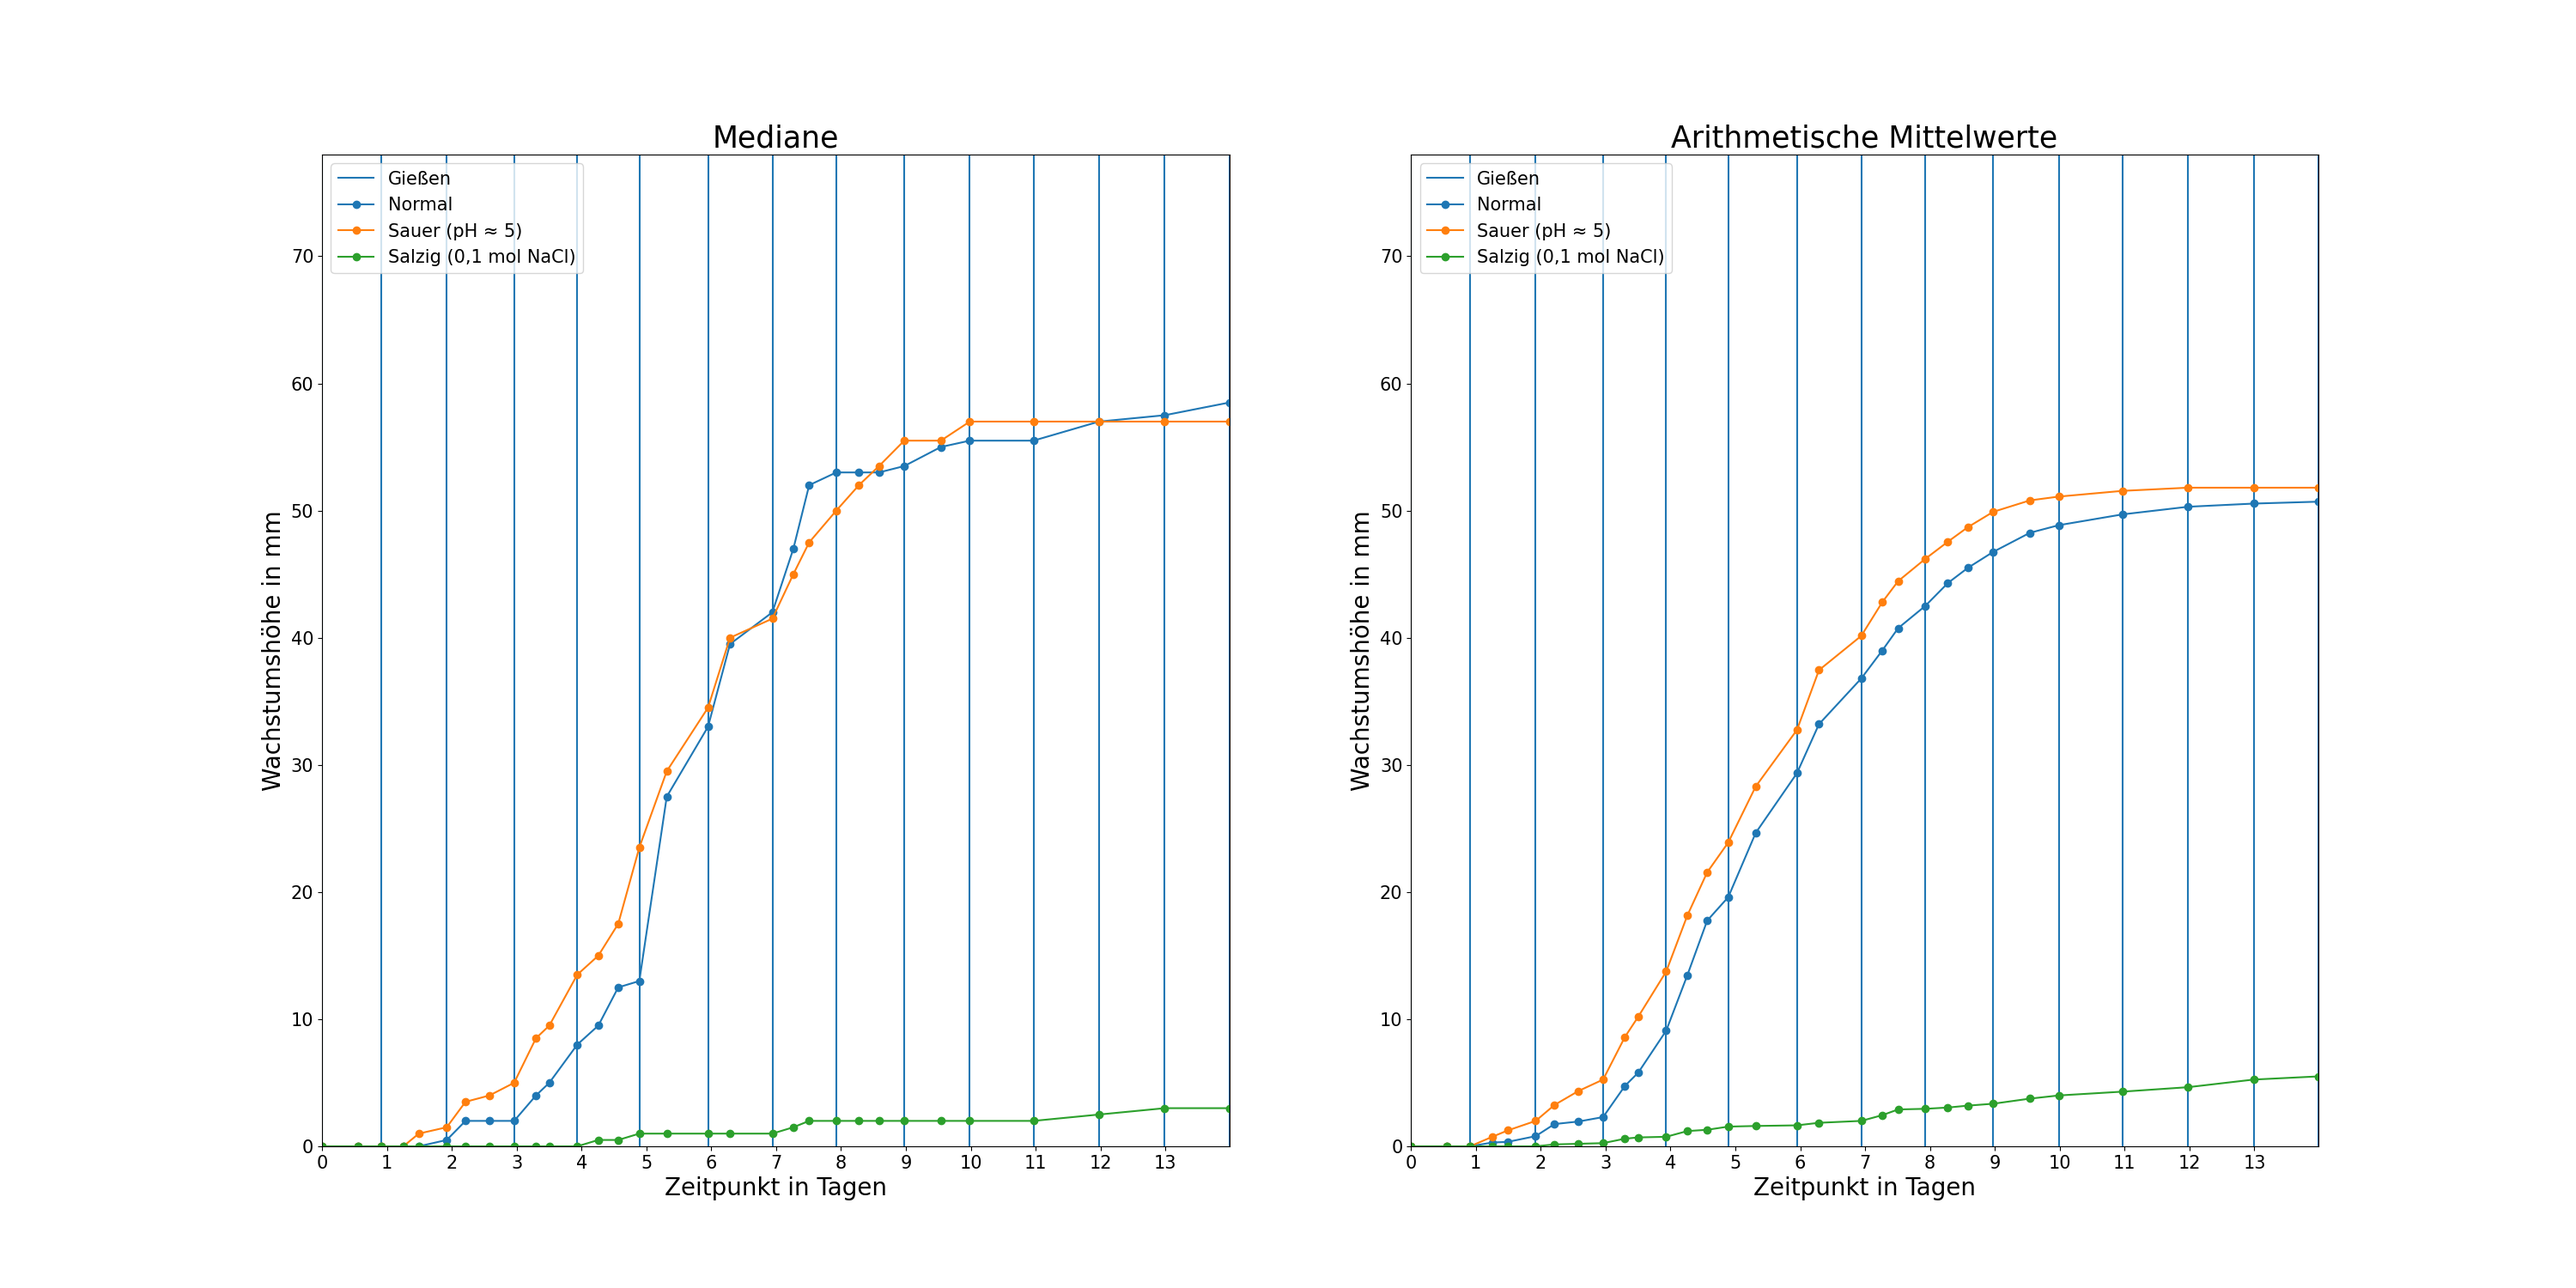
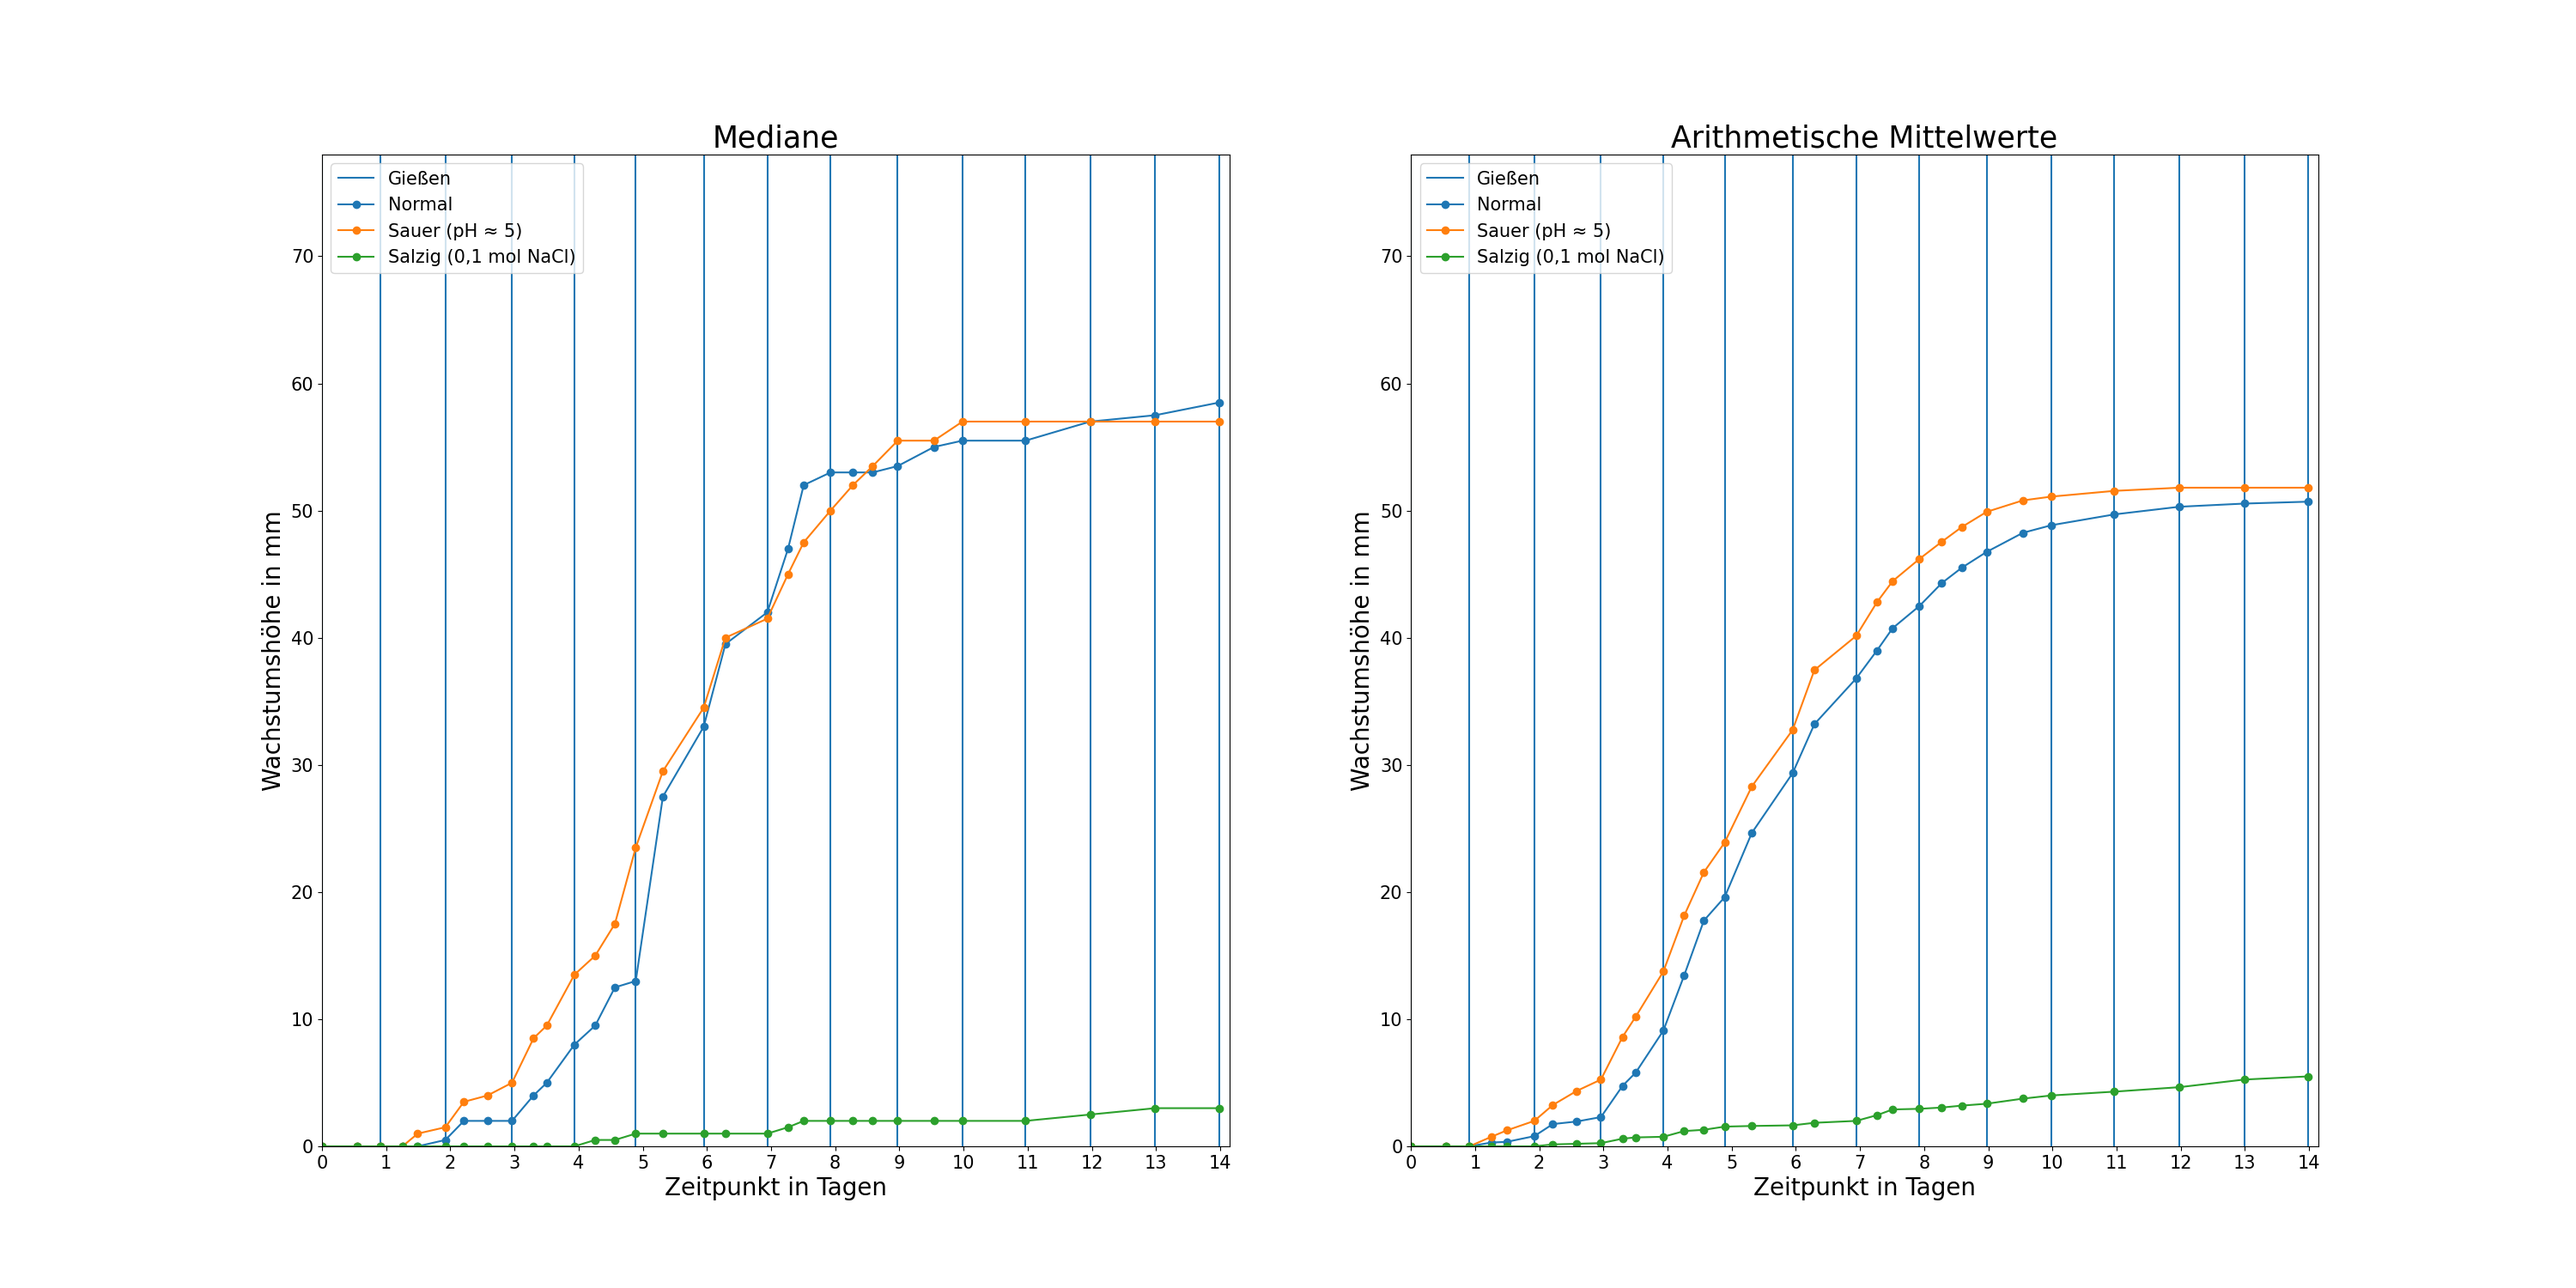
Adjusted x axis in plots

Changed region(s): [[0.589, 0.368, 0.899, 0.8893], [0.155, 0.5213, 0.434, 0.8893], [0.279, 0.3067, 0.465, 0.5213]]

diff --git a/Analyse.py b/Analyse.py
@@ -137,8 +137,8 @@ def plotBoxed(data: dict, outFileName: str) -> "saves plot as png":
             box.set_facecolor("white")
         subP.set_xlim(0, pos[-1]+210)
         subP.set_ylim(-4, MAX_V + 2)
-        subP.set_xticks([i for i in range(0, pos[-1], 60 * 24)])
-        # subP.set_xticklabels([i // (60 * 24) for i in range(0, pos[-1], 60 * 24)], fontsize=15)
+        subP.set_xticks([i for i in range(0, pos[-1] + 60 * 24, 60 * 24)])
+        subP.set_xticklabels([i // (60 * 24) for i in range(0, pos[-1] + 60 * 24, 60 * 24)], fontsize=15)
         for label in subP.get_yticklabels():
             label.set_fontsize(15)
         subP.legend(loc="upper left", fontsize=15)
@@ -204,11 +204,11 @@ def plotScattered(data: dict, outFileName: str) -> "saves plot as png":
         subP.set_title(["Mediane", "Arithmetische Mittelwerte"][i], fontdict={"fontsize": 25})
         plot.xlabel("Zeitpunkt in Tagen", fontsize=20)
         plot.ylabel("Wachstumshöhe in mm", fontsize=20)
-        subP.set_xticks([i for i in range(0, MAX_X, 60 * 24)])
-        subP.set_xticklabels([i // (60 * 24) for i in range(0, MAX_X, 60 * 24)], fontsize=15)
+        subP.set_xticks([i for i in range(0, MAX_X + 60 * 24, 60 * 24)])
+        subP.set_xticklabels([i // (60 * 24) for i in range(0, MAX_X + 60 * 24, 60 * 24)], fontsize=15)
         for label in subP.get_yticklabels():
             label.set_fontsize(15)
-        subP.set_xlim(0, MAX_X)
+        subP.set_xlim(0, (int(MAX_X / (60 * 24))+1) * 60 * 24 + 210)
         subP.set_ylim(0, MAX_Y)
         addWatering(subP)
 
